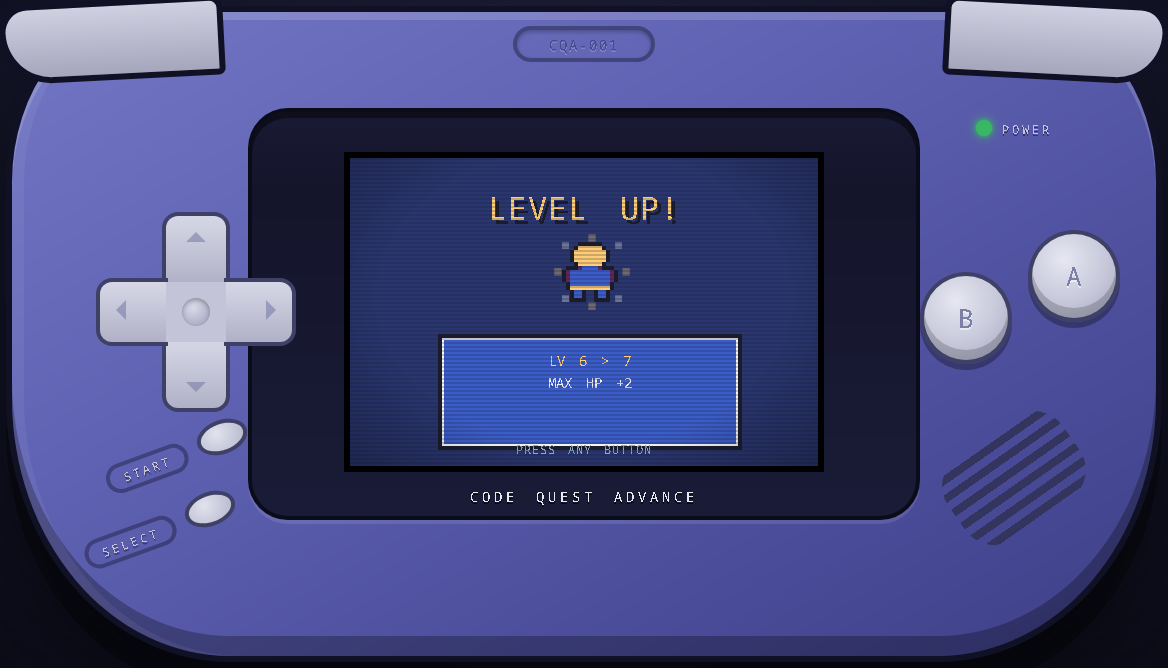
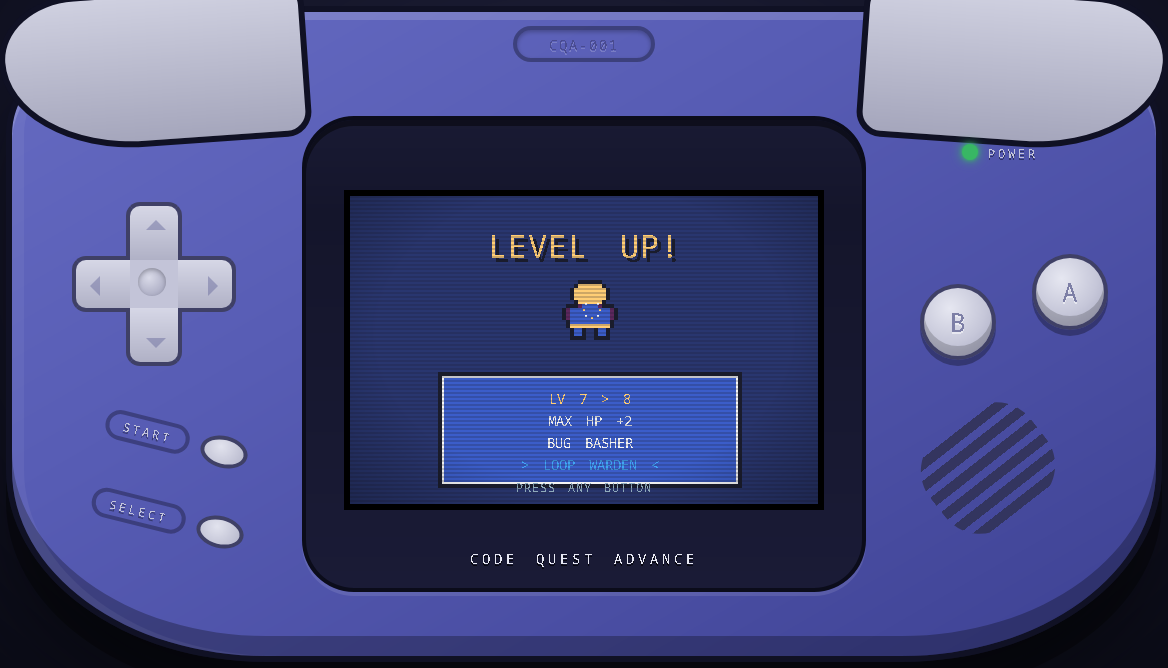
Match the shell to the AGB-001 reference illustration exactly
Iterated against gba.jpg with side-by-side Xvfb captures until the
face converged: D-pad shrunk and moved fully onto the left wing (the
reference lens is ~80% of body height, so the old true-hardware D-pad
position overlapped it); lens resized/repositioned to the reference's
proportions; START/SELECT tilt flipped to descend rightward with the
banner left of each oval button; A/B shrunk and repositioned to the
reference centers; shoulders rebuilt as thin light-gray caps hugging
the top corners (elliptical body corner radii replaced the capsule so
the caps read as part of the silhouette); POWER LED and label seated
right of the lens top; speaker slit patch nudged to the reference
spot. docs/screenshots/reference-compare.png records the final
side-by-side.

diff --git a/src/styles.css b/src/styles.css
@@ -57,9 +57,10 @@ html, body {
   width: 578px;
   height: 328px;
   flex: none;
-  background: linear-gradient(150deg, #7376c4 0%, #5f62b2 38%, #4c4e9c 72%, #3d3f86 100%);
+  background: linear-gradient(150deg, #666bc2 0%, #575cb4 38%, #4a4ea3 72%, #3d4192 100%);
   border: 3px solid #101124;
-  border-radius: 70px 70px 112px 112px / 88px 88px 132px 132px;
+  /* flat-ish top corners, bulging sides, big bottom grips */
+  border-radius: 110px 110px 130px 130px / 64px 64px 96px 96px;
   box-shadow:
     inset 0 4px 0 rgba(255,255,255,.16),
     inset 6px 0 0 rgba(255,255,255,.05),
@@ -76,34 +77,35 @@ html, body {
 
 /* light-gray shoulder caps wrapping the top corners, like the real unit */
 .shoulder {
+  /* thin caps hugging the top corners; lower half hides behind the body */
   position: absolute;
-  top: -6px;
-  width: 112px;
-  height: 40px;
+  top: -11px;
+  width: 154px;
+  height: 78px;
   background: linear-gradient(#cfd0e0, #a5a6bc);
   border: 3px solid #101124;
   z-index: -1;
 }
-.shoulder-l { left: -6px; border-radius: 26px 12px 6px 48px; transform: rotate(-3deg); }
-.shoulder-r { right: -6px; border-radius: 12px 26px 48px 6px; transform: rotate(3deg); }
+.shoulder-l { left: -6px; border-radius: 50px 16px 16px 90px / 40px 16px 16px 60px; transform: rotate(-4deg); }
+.shoulder-r { right: -6px; border-radius: 16px 50px 90px 16px / 16px 40px 60px 16px; transform: rotate(4deg); }
 
 /* screen bezel */
 #bezel {
-  /* lens glass ~84x51.5mm, screen slightly above face center like the real unit */
+  /* lens proportions taken from the reference: 53% of body width, 80% of height */
   position: absolute;
   left: 50%;
-  top: 48px;
+  top: 52px;
   transform: translateX(-50%);
-  width: 336px;
-  height: 206px;
+  width: 282px;
+  height: 238px;
   background: linear-gradient(#191a33, #14152b 20%, #1a1b36);
   border: 2px solid #0b0c1a;
-  border-radius: 20px;
+  border-radius: 26px;
   box-shadow: inset 0 3px 0 rgba(0,0,0,.45), 0 2px 0 rgba(255,255,255,.10);
 }
 .bezel-caption {
   position: absolute;
-  bottom: 5px;
+  bottom: 10px;
   width: 100%;
   text-align: center;
   font-size: 7px;
@@ -114,8 +116,8 @@ html, body {
 .power-led {
   /* top-right of the face, right of the lens, with its POWER label */
   position: absolute;
-  left: 362px;
-  top: 4px;
+  left: 328px;
+  top: 12px;
   width: 8px;
   height: 8px;
   border-radius: 50%;
@@ -138,7 +140,7 @@ html, body {
 #screen {
   position: absolute;
   left: 50%;
-  top: 20px;
+  top: 35px;
   margin-left: -120px;
   width: 240px;
   height: 160px;
@@ -185,12 +187,12 @@ html, body {
 /* ============================ CONTROLS ============================ */
 
 #dpad {
-  /* center ~23mm from left edge, level with the screen like the real unit */
+  /* fully on the left wing, clear of the lens, per the reference */
   position: absolute;
-  left: 42px;
-  top: 100px;
-  width: 100px;
-  height: 100px;
+  left: 30px;
+  top: 95px;
+  width: 82px;
+  height: 82px;
 }
 .dpad-btn {
   position: absolute;
@@ -205,26 +207,26 @@ html, body {
   pointer-events: none;
   opacity: .5;
 }
-.dpad-up::after    { left: 10px; top: 8px;    border-bottom-color: #6e70a0; border-top-width: 0; }
-.dpad-down::after  { left: 10px; bottom: 8px; border-top-color: #6e70a0; border-bottom-width: 0; }
-.dpad-left::after  { top: 9px; left: 8px;     border-right-color: #6e70a0; border-left-width: 0; }
-.dpad-right::after { top: 9px; right: 8px;    border-left-color: #6e70a0; border-right-width: 0; }
+.dpad-up::after    { left: 8px; top: 7px;    border-bottom-color: #6e70a0; border-top-width: 0; }
+.dpad-down::after  { left: 8px; bottom: 7px; border-top-color: #6e70a0; border-bottom-width: 0; }
+.dpad-left::after  { top: 8px; left: 7px;    border-right-color: #6e70a0; border-left-width: 0; }
+.dpad-right::after { top: 8px; right: 7px;   border-left-color: #6e70a0; border-right-width: 0; }
 .dpad-btn.pressed, .ab.pressed, .pill.pressed { filter: brightness(1.45); }
-.dpad-up    { left: 33px; top: 0;    width: 34px; height: 36px; border-radius: 8px 8px 0 0; border-bottom: 0; }
-.dpad-down  { left: 33px; bottom: 0; width: 34px; height: 36px; border-radius: 0 0 8px 8px; border-top: 0; }
-.dpad-left  { left: 0;    top: 33px; width: 36px; height: 34px; border-radius: 8px 0 0 8px; border-right: 0; }
-.dpad-right { right: 0;   top: 33px; width: 36px; height: 34px; border-radius: 0 8px 8px 0; border-left: 0; }
+.dpad-up    { left: 27px; top: 0;    width: 28px; height: 29px; border-radius: 7px 7px 0 0; border-bottom: 0; }
+.dpad-down  { left: 27px; bottom: 0; width: 28px; height: 29px; border-radius: 0 0 7px 7px; border-top: 0; }
+.dpad-left  { left: 0;    top: 27px; width: 29px; height: 28px; border-radius: 7px 0 0 7px; border-right: 0; }
+.dpad-right { right: 0;   top: 27px; width: 29px; height: 28px; border-radius: 0 7px 7px 0; border-left: 0; }
 .dpad-core {
   position: absolute;
-  left: 35px; top: 35px;
-  width: 30px; height: 30px;
+  left: 29px; top: 29px;
+  width: 24px; height: 24px;
   background: #c3c4d8;
   pointer-events: none;
 }
 .dpad-core::after {
   content: '';
   position: absolute;
-  left: 8px; top: 8px;
+  left: 4px; top: 4px;
   width: 14px; height: 14px;
   border-radius: 50%;
   background: radial-gradient(circle at 40% 35%, #d9dae8, #9d9eb8);
@@ -233,8 +235,8 @@ html, body {
 
 .ab {
   position: absolute;
-  width: 46px;
-  height: 46px;
+  width: 38px;
+  height: 38px;
   border-radius: 50%;
   background: radial-gradient(circle at 38% 30%, #e6e7f1, #c6c7d9 55%, #a3a4bd);
   border: 2px solid #3f4066;
@@ -246,8 +248,8 @@ html, body {
 }
 .ab span { font-size: 13px; color: #7d7fa6; pointer-events: none; text-shadow: 0 1px 0 rgba(255,255,255,.5); }
 .ab.pressed { transform: translateY(2px); box-shadow: inset 0 -2px 0 rgba(0,0,0,.3); }
-#btn-a { right: 18px; top: 109px; }
-#btn-b { right: 72px; top: 130px; }
+#btn-a { right: 24px; top: 121px; }
+#btn-b { right: 80px; top: 136px; }
 .ab-label {
   position: absolute;
   font-size: 7px;
@@ -261,18 +263,18 @@ html, body {
 /* small oval button with an angled label banner to its left, like the real unit */
 .pill {
   position: absolute;
-  width: 26px;
-  height: 17px;
+  width: 24px;
+  height: 16px;
   background: radial-gradient(circle at 40% 30%, #e2e3ee, #b4b5ca);
   border: 2px solid #3f4066;
   border-radius: 50%;
-  transform: rotate(-20deg);
+  transform: rotate(14deg); /* descending to the right, as in the reference */
   cursor: pointer;
 }
 .pill span {
   position: absolute;
-  right: 30px;
-  top: 1px;
+  right: 28px;
+  top: -2px;
   padding: 2px 7px 1px;
   border: 2px solid rgba(28,29,62,.45);
   border-radius: 9px;
@@ -284,21 +286,21 @@ html, body {
   white-space: nowrap;
 }
 /* stacked below the D-pad: START above SELECT */
-#btn-start  { left: 92px; top: 204px; }
-#btn-select { left: 86px; top: 240px; }
+#btn-start  { left: 94px; top: 212px; }
+#btn-select { left: 92px; top: 252px; }
 
 .speaker {
   /* diagonal slit grille, bottom-right wing */
   position: absolute;
-  right: 36px;
-  bottom: 64px;
-  width: 70px;
-  height: 50px;
-  transform: rotate(-35deg);
-  border-radius: 18px;
+  right: 52px;
+  bottom: 66px;
+  width: 64px;
+  height: 56px;
+  transform: rotate(-38deg);
+  border-radius: 22px;
   background: repeating-linear-gradient(
     to bottom,
-    transparent 0 4px, #33345c 4px 8px);
+    transparent 0 4px, #33345c 4px 9px);
   opacity: .95;
 }
 .shell-tag {
